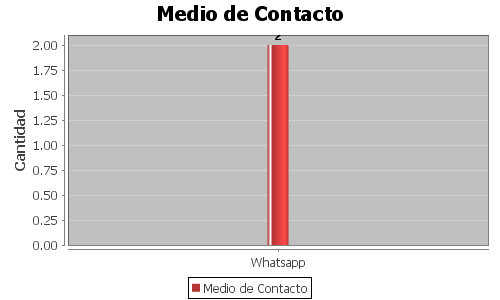
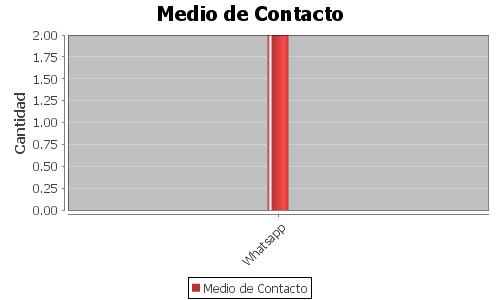
graficas ya sale completa el numero de arriba salen las etiquetas en angulo de 45grados

Changed region(s): [[0.03, 0.39, 0.99, 0.9], [0.03, 0.09, 0.12, 0.36], [0.51, 0.09, 0.6, 0.15]]

diff --git a/src/sistemacapta/GenerarReporteOperadorController.java b/src/sistemacapta/GenerarReporteOperadorController.java
@@ -51,11 +51,9 @@ import org.jfree.data.category.DefaultCategoryDataset;
 import java.time.LocalDate;
 import javax.swing.JFileChooser;
 import javax.swing.filechooser.FileNameExtensionFilter;
-import org.jfree.chart.axis.AxisLocation;
+import org.jfree.chart.axis.CategoryAxis;
 import org.jfree.chart.axis.CategoryLabelPositions;
-import org.jfree.chart.labels.CategoryItemLabelGenerator;
-import org.jfree.chart.labels.ItemLabelAnchor;
-import org.jfree.chart.labels.ItemLabelPosition;
+
 import org.jfree.chart.labels.StandardCategoryItemLabelGenerator;
 import org.jfree.chart.plot.CategoryPlot;
 //import org.jfree.chart.ui.TextAnchor;  // Mantén esta
@@ -142,10 +140,10 @@ public class GenerarReporteOperadorController implements Initializable {
     }
   
                       
-   // Código para los saltos después de cada consulta
-        private void GenerarReporteOperador(ActionEvent event) throws FileNotFoundException, IOException {
-            LocalDate selectedDate = StartDate.getValue();
-            LocalDate endDate = EndDate.getValue();
+// Código para los saltos después de cada consulta
+private void GenerarReporteOperador(ActionEvent event) throws FileNotFoundException, IOException {
+    LocalDate selectedDate = StartDate.getValue();
+    LocalDate endDate = EndDate.getValue();
 
     if (selectedDate != null && endDate != null) {
         JFileChooser fileChooser = new JFileChooser();
@@ -194,12 +192,12 @@ public class GenerarReporteOperadorController implements Initializable {
                     document.add(new Paragraph("Gráficas:", FontFactory.getFont(FontFactory.HELVETICA_BOLD, 14)));
                     document.add(Chunk.NEWLINE);
 
-                    // **Generación de Gráficas**
-                    generarGrafica(conn, document, "Género", "SELECT genero, COUNT(*) FROM reporteoperadores WHERE fecha BETWEEN ? AND ? GROUP BY genero", selectedDate, endDate, "GraficaGenero.png");
-                    generarGrafica(conn, document, "Tipo Atendido", "SELECT tipo_atendido, COUNT(*) FROM reporteoperadores WHERE fecha BETWEEN ? AND ? GROUP BY tipo_atendido", selectedDate, endDate, "GraficaTipoAtendido.png");
-                    generarGrafica(conn, document, "Medio de Contacto", "SELECT contacto, COUNT(*) FROM reporteoperadores WHERE fecha BETWEEN ? AND ? GROUP BY contacto", selectedDate, endDate, "GraficaMedioContacto.png");
-                    generarGrafica(conn, document, "Grupo de Atención", "SELECT grupo_atencion, COUNT(*) FROM reporteoperadores WHERE fecha BETWEEN ? AND ? GROUP BY grupo_atencion", selectedDate, endDate, "GraficaGrupoAtencion.png");
-                    generarGrafica(conn, document, "Clasificación", "SELECT clasificacion, COUNT(*) FROM reporteoperadores WHERE fecha BETWEEN ? AND ? GROUP BY clasificacion", selectedDate, endDate, "GraficaClasificacion.png");
+                    // **Generación de Gráficas con el máximo basado en totalAtendidos**
+                    generarGrafica(conn, document, "Género", "SELECT genero, COUNT(*) FROM reporteoperadores WHERE fecha BETWEEN ? AND ? GROUP BY genero", selectedDate, endDate, "GraficaGenero.png", totalAtendidos);
+                    generarGrafica(conn, document, "Tipo Atendido", "SELECT tipo_atendido, COUNT(*) FROM reporteoperadores WHERE fecha BETWEEN ? AND ? GROUP BY tipo_atendido", selectedDate, endDate, "GraficaTipoAtendido.png", totalAtendidos);
+                    generarGrafica(conn, document, "Medio de Contacto", "SELECT contacto, COUNT(*) FROM reporteoperadores WHERE fecha BETWEEN ? AND ? GROUP BY contacto", selectedDate, endDate, "GraficaMedioContacto.png", totalAtendidos);
+                    generarGrafica(conn, document, "Grupo de Atención", "SELECT grupo_atencion, COUNT(*) FROM reporteoperadores WHERE fecha BETWEEN ? AND ? GROUP BY grupo_atencion", selectedDate, endDate, "GraficaGrupoAtencion.png", totalAtendidos);
+                    generarGrafica(conn, document, "Clasificación", "SELECT clasificacion, COUNT(*) FROM reporteoperadores WHERE fecha BETWEEN ? AND ? GROUP BY clasificacion", selectedDate, endDate, "GraficaClasificacion.png", totalAtendidos);
                 } catch (SQLException e) {
                     e.printStackTrace();
                 }
@@ -216,6 +214,59 @@ public class GenerarReporteOperadorController implements Initializable {
         System.out.println("No se ha seleccionado una fecha.");
     }
 }
+
+// **Genera una gráfica con el máximo en el eje Y basado en totalAtendidos**
+// **Genera una gráfica y la añade al PDF**
+private void generarGrafica(Connection conn, Document document, String titulo, String query, LocalDate startDate, LocalDate endDate, String nombreImagen, int totalAtendidos) throws SQLException, DocumentException, IOException {
+    DefaultCategoryDataset dataset = new DefaultCategoryDataset();
+    try (PreparedStatement stmt = conn.prepareStatement(query)) {
+        stmt.setDate(1, java.sql.Date.valueOf(startDate));
+        stmt.setDate(2, java.sql.Date.valueOf(endDate));
+        try (ResultSet rs = stmt.executeQuery()) {
+            while (rs.next()) {
+                dataset.addValue(rs.getInt(2), titulo, rs.getString(1));
+            }
+        }
+    }
+
+    if (!dataset.getRowKeys().isEmpty()) {
+        JFreeChart chart = ChartFactory.createBarChart(titulo, "", "Cantidad", dataset);
+        CategoryPlot plot = chart.getCategoryPlot();
+        BarRenderer renderer = (BarRenderer) plot.getRenderer();
+        
+        
+         // **Usar el total de reportes como el valor máximo en el eje Y**
+        plot.getRangeAxis().setUpperBound(totalAtendidos);
+
+
+        // Cambiar el color de las barras
+        renderer.setSeriesPaint(0, new Color(181,52,52));
+
+        // Hacer las barras más delgadas
+        renderer.setMaximumBarWidth(0.05);
+
+        // Mostrar valores en las barras
+        renderer.setSeriesItemLabelGenerator(0, new StandardCategoryItemLabelGenerator());
+        renderer.setSeriesItemLabelsVisible(0, true);
+        renderer.setSeriesItemLabelFont(0, new java.awt.Font("SansSerif", java.awt.Font.BOLD, 12));
+        renderer.setSeriesItemLabelPaint(0, Color.BLACK);
+        
+        // Ajustar las etiquetas en el eje X
+        CategoryAxis categoryAxis = plot.getDomainAxis();
+        categoryAxis.setCategoryLabelPositions(CategoryLabelPositions.UP_45);  // Rota las etiquetas 45 grados
+
+        // Guardar la imagen y agregarla al PDF
+        File chartFile = new File(nombreImagen);
+        ChartUtilities.saveChartAsPNG(chartFile, chart, 500, 300);
+        Image img = Image.getInstance(nombreImagen);
+        img.scaleToFit(500, 300);
+        document.add(img);
+        document.add(Chunk.NEWLINE);
+    } else {
+        document.add(new Paragraph("No hay datos para " + titulo + "."));
+    }
+}
+
 
         // **Ejecuta una consulta de conteo total**
         private int ejecutarConsultaConteo(Connection conn, String query, LocalDate startDate, LocalDate endDate) throws SQLException {
@@ -267,10 +318,10 @@ public class GenerarReporteOperadorController implements Initializable {
                 BarRenderer renderer = (BarRenderer) plot.getRenderer();
 
                 // Cambiar el color de las barras
-                renderer.setSeriesPaint(0, new Color(181,52,52));
+                //renderer.setSeriesPaint(0, new Color(181,52,52));
 
                 // Hacer las barras más delgadas
-                renderer.setMaximumBarWidth(0.05);
+            //    renderer.setMaximumBarWidth(0.05);
 
                 // Mostrar valores en las barras
             renderer.setSeriesItemLabelGenerator(0, new StandardCategoryItemLabelGenerator());
